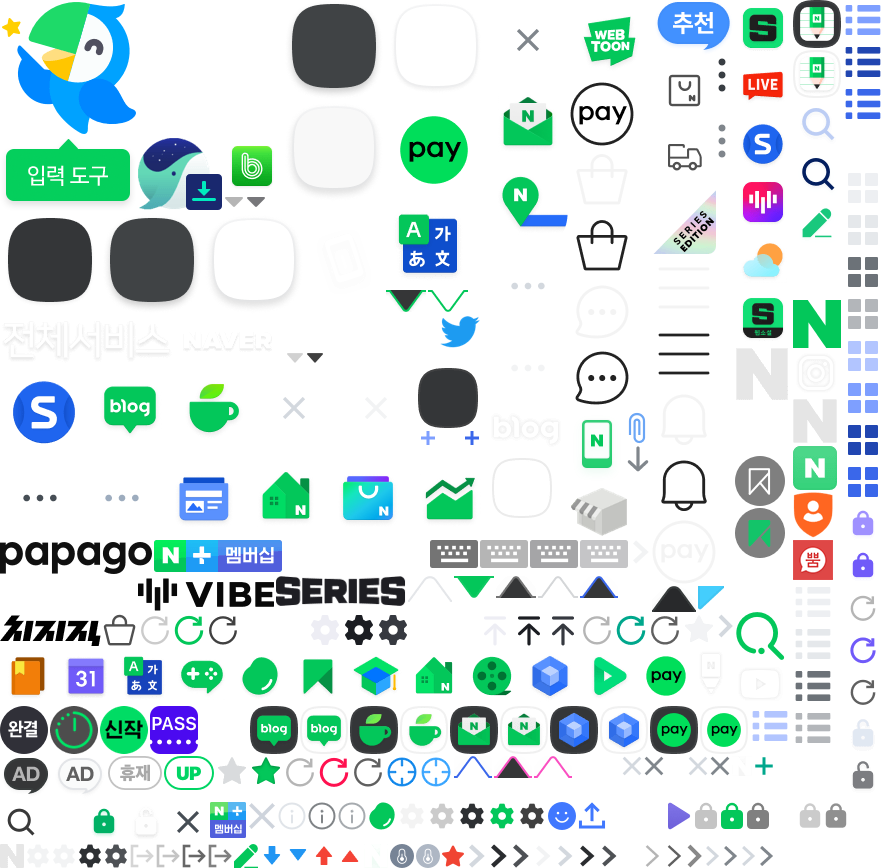
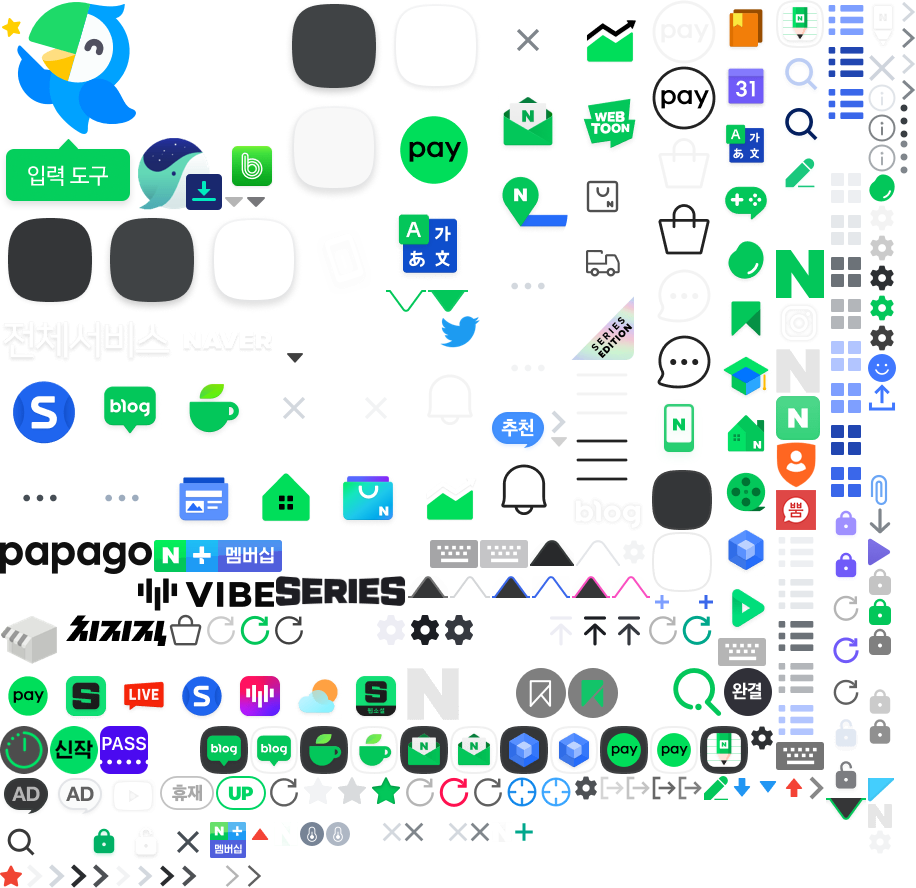
1-11강

diff --git a/제로초 인강/index.html b/제로초 인강/index.html
@@ -72,6 +72,9 @@
             --color_shop: #9858f5;
             --color_shop_rgb: 152,88,245;
         }
+        *{
+            box-sizing: border-box;
+        }
         html, body{
             margin: 0;
             padding: 0;
@@ -89,40 +92,68 @@
             text-align: left;
             position: relative; 
         }
-        #header-hamburger{
+        #header-hamburger, #header-naverpay, #header-talk, #header-notice, #header-shopping{
             position: absolute;
             top: 5px;
-            left: -12px;
-            padding: 10px;
+            padding: 8px;
+            width: 48px;
+            height: 48px;
             display: inline-block;  
             background: none;
             border: none;
             cursor: pointer;
         }
-        #header-hamburger:hover::before{
+        #header-hamburger:hover::before, #header-naverpay:hover::before, #header-talk:hover::before, #header-notice:hover::before, #header-shopping:hover::before{
             content: '';
             position: absolute;
-            left: 1px;
-            top:1px;
+            left: 0.5px;
+            top: 1px;
             z-index: 0;
-            width: 44px;
-            height: 44px;
+            width: 48px;
+            height: 48px;
             background-color: var(--color_option_bg);
             border-radius: 50%;
         }
-        #header-hamburger:hover > div{
+        #header-hamburger:hover > div, #header-naverpay:hover > div, #header-talk:hover > div, #header-notice:hover > div, #header-shopping:hover > div{
             position: relative;
-            left:-2px;
-            top:-3px;
         }
-        #header-hamburger > div{
+        #header-hamburger > div, #header-naverpay > div, #header-talk > div, #header-notice > div, #header-shopping > div{
             background-image: url(./sp_main.png);
             width: 32px;
             height: 32px;
             z-index: 1;
             background-repeat: no-repeat;
-            background-size: 442px 434px;
-            background-position: -326px -161px;
+            background-size: 458px 444px;
+        }
+        #header-hamburger{
+            left: -12px;
+        }
+        #header-hamburger > div {
+            background-position: -285px -214px;
+        }
+        #header-talk{
+            right: 94px;
+        }
+        #header-talk > div{
+            background-position: -326px -165px;
+        }
+        #header-naverpay{
+            left: 41px;
+        }
+        #header-naverpay > div{
+            background-position: -326px -33px;
+        }
+        #header-notice{
+            right: 42px;
+        }
+        #header-notice > div{
+            background-position: -246px -229px;
+        }
+        #header-shopping{
+            right: -10px;
+        }
+        #header-shopping > div{
+            background-position: -326px -99px;
         }
         #main {
             height: 2000px;
@@ -145,6 +176,30 @@
                     <!--::before-->
                     <div></div>
                     <span class="blind">확장 영역</span>
+                    <!--::after-->
+                </button>
+                <button id="header-naverpay">
+                    <!--::before-->
+                    <div></div>
+                    <span class="blind">네이버페이</span>
+                    <!--::after-->
+                </button>
+                <button id="header-talk">
+                    <!--::before-->
+                    <div></div>
+                    <span class="blind">톡</span>
+                    <!--::after-->
+                </button>
+                <button id="header-notice">
+                    <!--::before-->
+                    <div></div>
+                    <span class="blind">알림</span>
+                    <!--::after-->
+                </button>
+                <button id="header-shopping">
+                    <!--::before-->
+                    <div></div>
+                    <span class="blind">장바구니</span>
                     <!--::after-->
                 </button>
             
